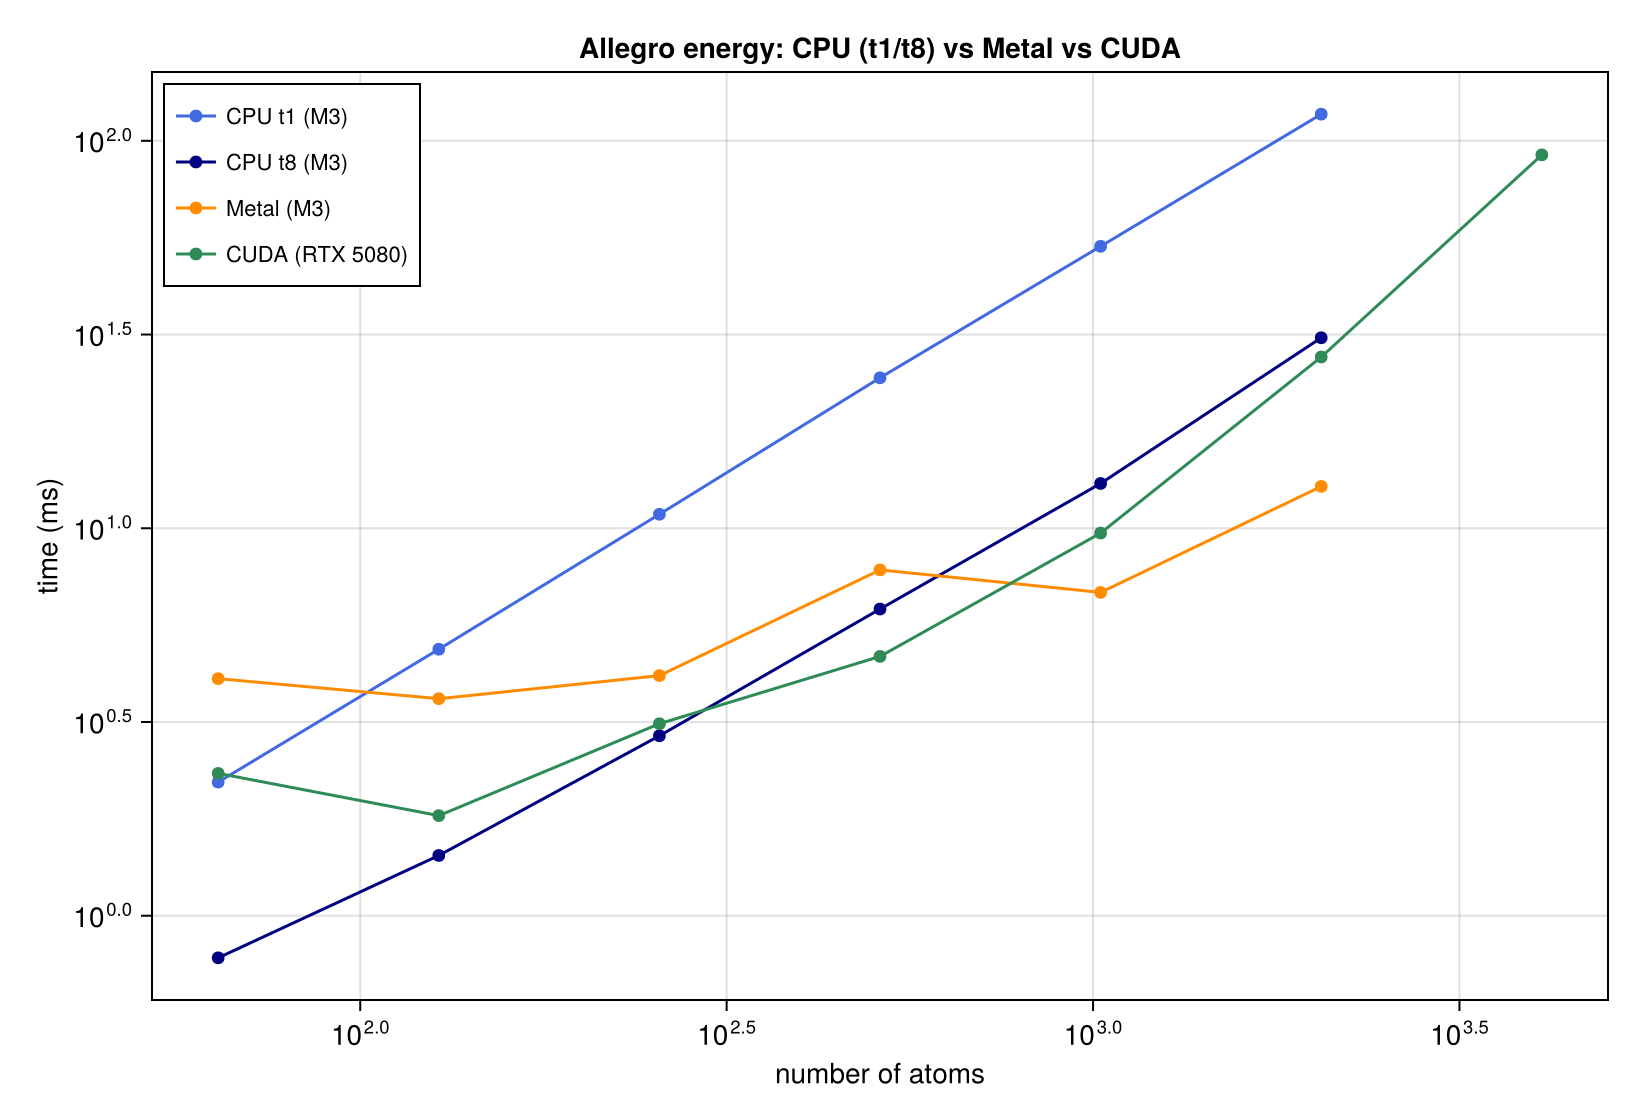
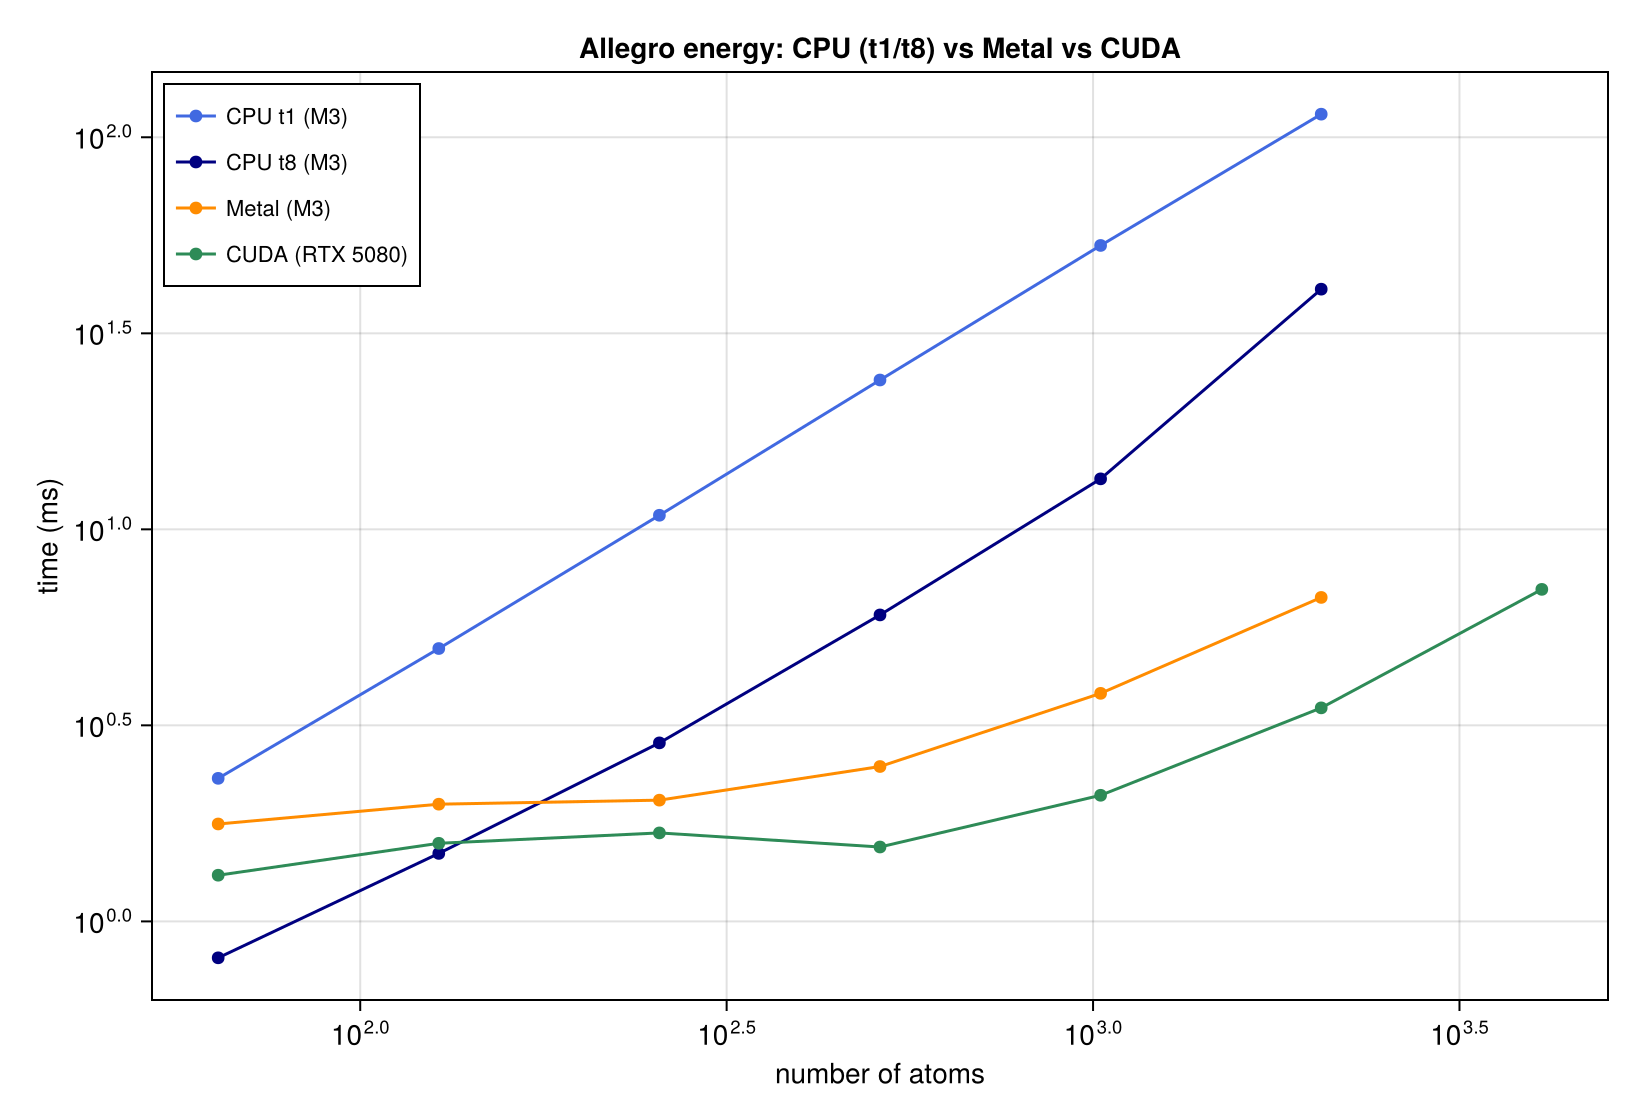
Allegro benchmarks: refresh GPU numbers after the on-device optimization
CUDA energy now stays ~1.3-7 ms flat from 64 to 4096 atoms (was 2.3-92 ms):
up to 209x over CPU-t1 and 65x over CPU-t8 at 4096, growing with N. Metal
similarly improved (6.1x over CPU-t8 at 2048). Updated tables, figures and the
prose/caveats to reflect the fully on-device forward (neighbour build +
geometry + layers, no inter-kernel sync).

diff --git a/benchmark/allegro_benchmarks.md b/benchmark/allegro_benchmarks.md
@@ -98,31 +98,34 @@ julia --project=<env+CUDA>  -t8 benchmark/allegro_cuda_compare.jl  # then -t1  (
 
 | atoms | CPU t1 | CPU t8 | CUDA | CUDA/t1 | CUDA/t8 | reldiff |
 | :---: | :---: | :---: | :---: | :---: | :---: | :---: |
-| 64   | 11.8  | 3.6   | 2.33 | 5.1×  | 1.6×  | 1.6e-16 |
-| 128  | 25.8  | 8.2   | 1.81 | 14.2× | 4.6×  | 2.9e-16 |
-| 256  | 58.4  | 17.3  | 3.13 | 18.6× | 5.5×  | 4.0e-16 |
-| 512  | 130.3 | 34.5  | 4.67 | 27.9× | 7.4×  | 1.2e-16 |
-| 1024 | 336.8 | 105.4 | 9.72 | 34.7× | 10.8× | 1.2e-16 |
-| 2048 | 730.2 | 216.9 | 27.7 | 26.4× | 7.8×  | 0.0     |
-| 4096 | 1573.6| 477.4 | 92.0 | 17.1× | 5.2×  | 0.0     |
+| 64   | 11.3  | 3.5   | 1.31 | 9×   | 3×  | 1.6e-16 |
+| 128  | 24.7  | 8.2   | 1.58 | 16×  | 5×  | 2.9e-16 |
+| 256  | 55.4  | 16.4  | 1.68 | 33×  | 10× | 1.3e-16 |
+| 512  | 122.1 | 35.5  | 1.55 | 79×  | 23× | 2.4e-16 |
+| 1024 | 305.9 | 81.6  | 2.10 | 146× | 39× | 1.2e-16 |
+| 2048 | 645.1 | 218.8 | 3.50 | 184× | 62× | 0.0     |
+| 4096 | 1470.4| 459.0 | 7.03 | 209× | 65× | 0.0     |
 
 **Metal vs CPU (Apple M3), energy time in ms:**
 
 | atoms | CPU t1 | CPU t8 | Metal | Metal/t8 |
 | :---: | :---: | :---: | :---: | :---: |
-| 64   | 2.2   | 0.8  | 4.09 | 0.2× |
-| 128  | 4.9   | 1.4  | 3.63 | 0.4× |
-| 256  | 10.9  | 2.9  | 4.17 | 0.7× |
-| 512  | 24.5  | 6.2  | 7.81 | 0.8× |
-| 1024 | 53.4  | 13.1 | 6.83 | 1.9× |
-| 2048 | 117.1 | 31.0 | 12.8 | 2.4× |
+| 64   | 2.3   | 0.8  | 1.77 | 0.5× |
+| 128  | 5.0   | 1.5  | 1.99 | 0.7× |
+| 256  | 10.9  | 2.9  | 2.04 | 1.4× |
+| 512  | 24.0  | 6.0  | 2.48 | 2.4× |
+| 1024 | 53.0  | 13.5 | 3.82 | 3.5× |
+| 2048 | 114.5 | 41.0 | 6.70 | 6.1× |
 
-The GPU energy matches the CPU forward to ~1e-16 on CUDA (Float64) and ~3.6e-7 on Metal (Float32),
-confirming the kernels are correct on real hardware. Threading gives ~3.4–3.8× (t1→t8). CUDA is up
-to **34.7× over CPU-t1** and **10.8× over CPU-t8** (peak ~1024 atoms); it tapers at large N because
-the neighbour list is still built on the host (O(N²)) and copied over each call. Metal starts
+The GPU energy matches the CPU forward to ~1e-16 on CUDA (Float64) and ~1e-7 on Metal (Float32),
+confirming the kernels are correct on real hardware. Threading gives ~3.4–3.8× (t1→t8). The
+neighbour list, edge geometry and the whole forward run on-device with no inter-kernel
+synchronisation, so CUDA stays ~1.3–7 ms flat from 64 to 4096 atoms rather than climbing — up to
+**209× over CPU-t1** and **65× over CPU-t8** at 4096 atoms, growing with N. Metal starts
 launch-overhead bound at small N (the M3 CPU-t8 is sub-millisecond there) and overtakes CPU-t8 past
-~1000 atoms. A device-side neighbour build is the main remaining optimisation.
+~256 atoms (6.1× at 2048). An earlier version that built the neighbour list on the host and
+synchronised between kernels tapered badly at large N (92 ms CUDA at 4096 vs 7 ms now); moving that
+work on-device was the main win.
 
 ![Energy across backends](images/allegro_backends_energy_vs_N.png)
 
@@ -152,10 +155,10 @@ launch-overhead bound at small N (the M3 CPU-t8 is sub-millisecond there) and ov
 - Weights are the small random reference model used by the test suite, not a trained potential.
   Timings depend on the architecture size (channels `C`, latent width `H`, number of layers,
   `l_max`), not on the weight values, so they are representative for a model of this shape.
-- The **energy** forward now runs natively on the GPU (CUDA + Metal, see the CUDA section). The
-  **forces** (backward) still run on the CPU; a native GPU backward is the next step. The neighbour
-  list is built on the host for both, so a device-side neighbour build is the main remaining
-  optimisation.
+- The **energy** forward runs entirely on the GPU (CUDA + Metal, see the GPU section) — neighbour
+  build, geometry and the layer kernels, with no inter-kernel synchronisation. The **forces**
+  (backward) still run on the CPU (with a host-built neighbour list); a native GPU backward is the
+  next step.
 - A head-to-head against the reference `nequip-allegro` (PyTorch) package — analogous to the
   ANI-vs-TorchANI comparison — is future work: it needs a trained checkpoint (or a matched-config
   build) shared between the two implementations for a fair comparison.
